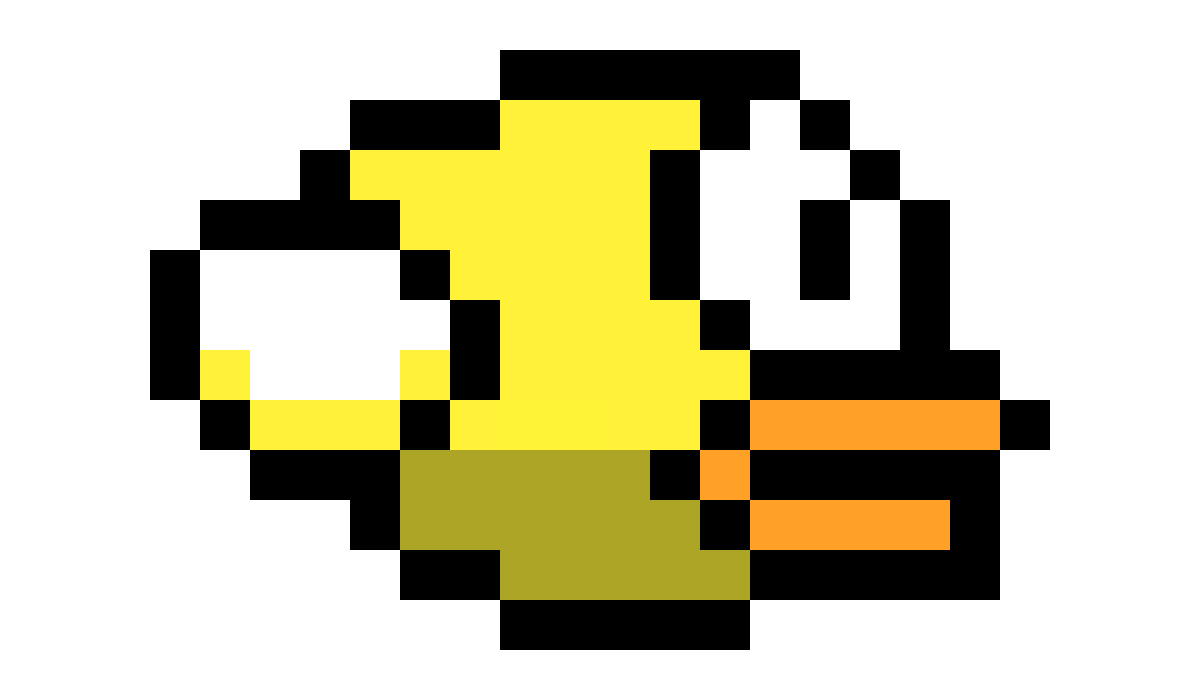
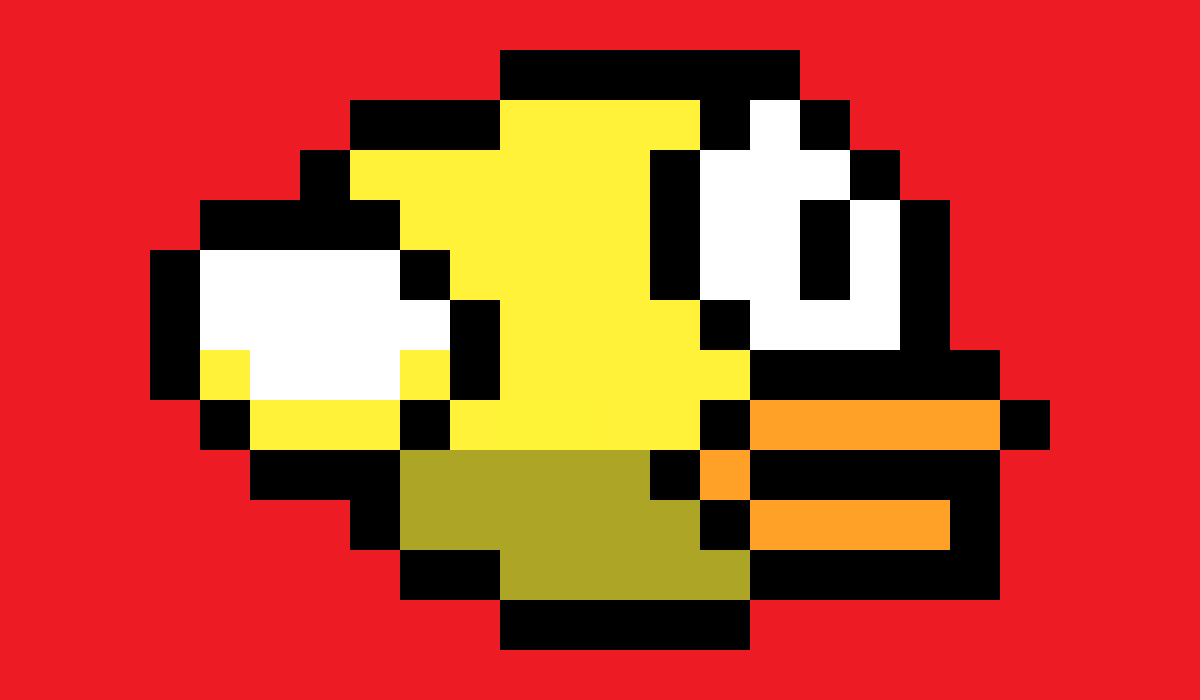
решена проблема с картинкой птички

diff --git a/main.py b/main.py
@@ -6,7 +6,7 @@ import sys
 class Bird(pygame.sprite.Sprite):
     def __init__(self):
         super().__init__()
-        self.image = pygame.transform.scale(load_image('bird1.png'), (85, 60))
+        self.image = pygame.transform.scale(load_image('bird1.png', -1), (120, 70))
         self.rect = self.image.get_rect()
         self.rect.x = 200
         self.rect.y = 300
